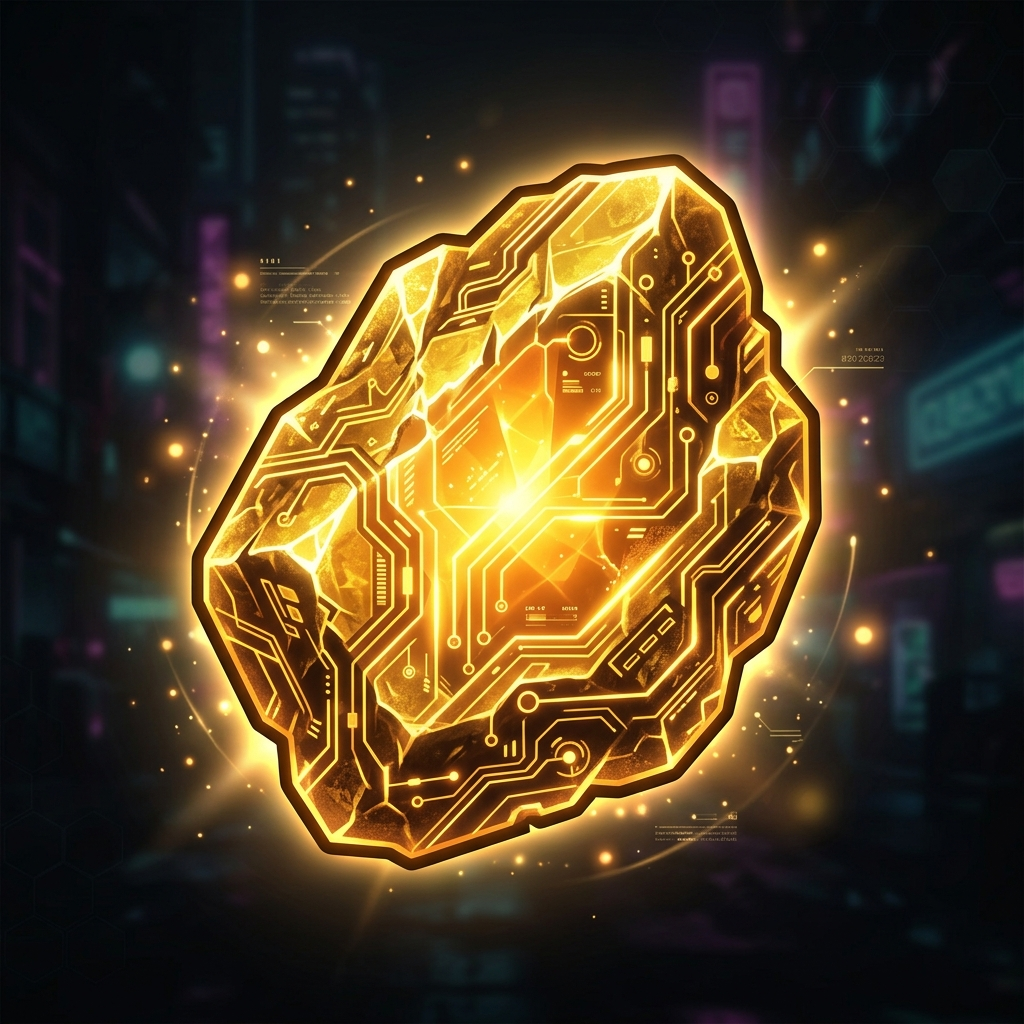
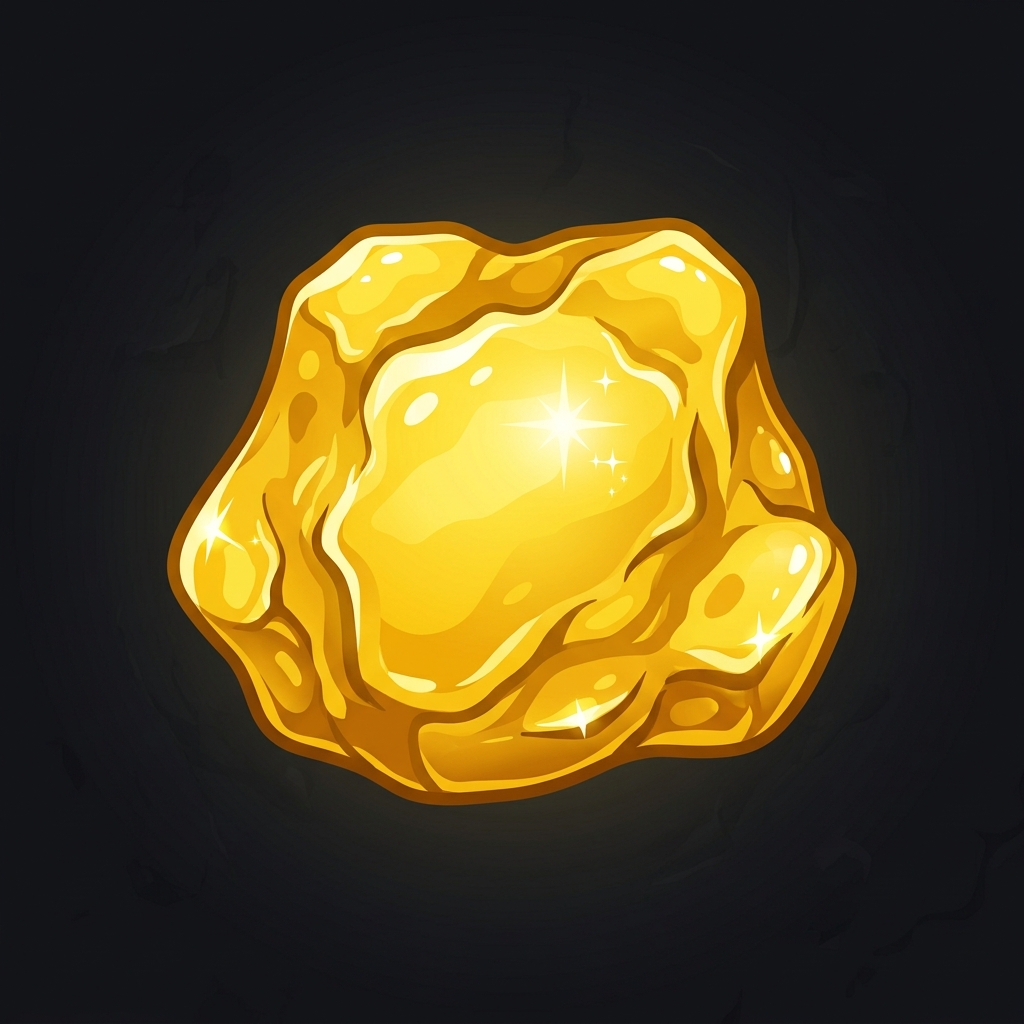
feat: upgrade Neon Gold Miner with classic cartoon miner, gold nugget, pig, bat obstacles, and exploding TNT barrels

diff --git a/miner.js b/miner.js
@@ -45,7 +45,8 @@
         },
 
         // Mảng các vật thể dưới đất
-        items: []
+        items: [],
+        explosions: [] // Hiệu ứng nổ { x, y, radius, maxRadius, alpha }
     };
 
     // Định nghĩa các loại vật phẩm
@@ -56,22 +57,54 @@
         DIAMOND: { radius: 10, color: '#b026ff', score: 600, weight: 0.5 },
         ROCK_S: { radius: 18, color: '#7f8c8d', score: 20, weight: 3.5 },
         ROCK_L: { radius: 30, color: '#7f8c8d', score: 50, weight: 6.0 },
+        TNT: { radius: 20, color: '#ff3b30', score: 0, weight: 1.0 }, // Thùng thuốc nổ
+        PIG: { radius: 16, color: '#ff85a2', score: 150, weight: 1.5 }, // Heo di động
+        BAT: { radius: 15, color: '#34495e', score: 80, weight: 1.0 }, // Dơi di động
         LUCKY: { radius: 16, color: '#ff3b30', score: null, weight: 1.5 } // Điểm random
     };
+
+    // --- LOAD ASSET SPRITES ---
+    const imgMiner = new Image();
+    imgMiner.src = 'assets/miner_character.png';
+
+    const imgGold = new Image();
+    imgGold.src = 'assets/neon_gold_nugget.png';
+
+    const imgDiamond = new Image();
+    imgDiamond.src = 'assets/neon_diamond.png';
+
+    const imgTNT = new Image();
+    imgTNT.src = 'assets/tnt_barrel.png';
+
+    const imgPig = new Image();
+    imgPig.src = 'assets/little_pig.png';
+
+    const imgBat = new Image();
+    imgBat.src = 'assets/flying_bat.png';
 
     // --- GAME ENGINE ---
     
     // Sinh ngẫu nhiên các vật phẩm dựa theo cấp độ
     function generateItemsForLevel() {
         state.items = [];
+        state.explosions = [];
         const count = 10 + state.level * 2;
         const types = Object.keys(ITEM_TYPES);
 
         for (let i = 0; i < count; i++) {
             let itemTypeKey = types[Math.floor(Math.random() * types.length)];
-            // Điều chỉnh xác suất: Diamond hiếm hơn
-            if (itemTypeKey === 'DIAMOND' && Math.random() > 0.3) {
-                itemTypeKey = 'GOLD_S';
+            
+            // Điều chỉnh xác suất: Diamond/TNT/Heo/Dơi phụ thuộc cấp độ
+            if (state.level === 1) {
+                // Màn 1: Không có heo, dơi, TNT
+                if (['TNT', 'PIG', 'BAT'].includes(itemTypeKey)) {
+                    itemTypeKey = 'GOLD_S';
+                }
+            } else {
+                // Các màn sau: diamond hiếm hơn
+                if (itemTypeKey === 'DIAMOND' && Math.random() > 0.3) {
+                    itemTypeKey = 'GOLD_S';
+                }
             }
             
             const conf = ITEM_TYPES[itemTypeKey];
@@ -100,13 +133,26 @@
                 actualScore = [50, 100, 250, 500, 800][Math.floor(Math.random() * 5)];
             }
 
+            // Tốc độ di chuyển cho Heo và Dơi
+            let speedX = 0;
+            let speedY = 0;
+            if (itemTypeKey === 'PIG') {
+                speedX = (Math.random() > 0.5 ? 1 : -1) * (0.8 + Math.random() * 0.8);
+            } else if (itemTypeKey === 'BAT') {
+                speedX = (Math.random() > 0.5 ? 1 : -1) * (1.2 + Math.random() * 1.0);
+                speedY = (Math.random() > 0.5 ? 0.3 : -0.3); // Bay lượn sóng
+            }
+
             state.items.push({
                 x, y,
                 radius: conf.radius,
                 color: conf.color,
                 scoreValue: actualScore,
                 weight: conf.weight,
-                type: itemTypeKey
+                type: itemTypeKey,
+                speedX,
+                speedY,
+                initialY: y // Để tính toán chuyển động lượn sóng cho dơi
             });
         }
     }
@@ -117,12 +163,72 @@
         state.hook.state = 'SHOOTING';
     }
 
+    // Kích nổ bom TNT
+    function triggerTNT(tntX, tntY) {
+        // Thêm hiệu ứng nổ
+        state.explosions.push({
+            x: tntX,
+            y: tntY,
+            radius: 10,
+            maxRadius: 100,
+            alpha: 1.0
+        });
+
+        // Hủy diệt các vật thể nằm trong bán kính nổ
+        const explosionRadius = 110;
+        state.items = state.items.filter(item => {
+            const dist = Math.hypot(item.x - tntX, item.y - tntY);
+            if (dist < explosionRadius) {
+                // Nếu nổ trúng 1 quả bom TNT khác -> kích nổ dây chuyền
+                if (item.type === 'TNT') {
+                    setTimeout(() => triggerTNT(item.x, item.y), 150);
+                }
+                return false; // Bị nổ tung (xóa khỏi mảng)
+            }
+            return true;
+        });
+
+        minerStatusText.innerText = 'BÙM! Thùng thuốc nổ đã kích hoạt!';
+        minerStatusText.style.color = '#ff3b30';
+    }
+
     // Cập nhật trạng thái Móc & Va chạm
     function updateGame() {
         if (state.status !== 'PLAYING') return;
 
         const hook = state.hook;
 
+        // 1. Cập nhật vị trí di chuyển cho các vật thể tự động (Heo, Dơi)
+        for (const item of state.items) {
+            if (item.type === 'PIG') {
+                item.x += item.speedX;
+                // Quay đầu khi chạm biên
+                if (item.x - item.radius < 5 || item.x + item.radius > minerCanvas.width - 5) {
+                    item.speedX *= -1;
+                }
+            } else if (item.type === 'BAT') {
+                item.x += item.speedX;
+                // Chuyển động lượn sóng Y
+                item.y = item.initialY + Math.sin(item.x * 0.05) * 20;
+                
+                // Quay đầu khi chạm biên
+                if (item.x - item.radius < 5 || item.x + item.radius > minerCanvas.width - 5) {
+                    item.speedX *= -1;
+                }
+            }
+        }
+
+        // 2. Cập nhật hiệu ứng nổ
+        for (let i = state.explosions.length - 1; i >= 0; i--) {
+            const exp = state.explosions[i];
+            exp.radius += 5;
+            exp.alpha -= 0.04;
+            if (exp.alpha <= 0) {
+                state.explosions.splice(i, 1);
+            }
+        }
+
+        // 3. Xử lý trạng thái Móc
         if (hook.state === 'SWINGING') {
             // Lắc qua lại theo cung tròn
             hook.angle += hook.swingDirection * SWING_SPEED;
@@ -152,10 +258,20 @@
                 const item = state.items[i];
                 const dist = Math.hypot(hook.x - item.x, hook.y - item.y);
                 if (dist < item.radius + HOOK_RADIUS) {
-                    // Tóm được vật phẩm
-                    hook.state = 'RETRIEVING';
-                    hook.grabbedItem = item;
-                    state.items.splice(i, 1); // Xóa khỏi danh sách dưới đất
+                    // Nếu là bom TNT -> Nổ ngay lập tức, không kéo về
+                    if (item.type === 'TNT') {
+                        triggerTNT(item.x, item.y);
+                        hook.state = 'RETRIEVING';
+                        state.items.splice(i, 1); // Xóa bom TNT
+                    } else {
+                        // Tóm được vật phẩm thường
+                        hook.state = 'RETRIEVING';
+                        // Dừng di chuyển của vật thể bị kéo
+                        item.speedX = 0;
+                        item.speedY = 0;
+                        hook.grabbedItem = item;
+                        state.items.splice(i, 1); // Xóa khỏi danh sách dưới đất
+                    }
                     break;
                 }
             }
@@ -176,7 +292,14 @@
                     minerCurrentScoreVal.innerText = state.score;
                     
                     // Show text thông báo điểm
-                    minerStatusText.innerText = `Kéo thành công! +${hook.grabbedItem.scoreValue} điểm.`;
+                    let name = 'vật phẩm';
+                    if (hook.grabbedItem.type.startsWith('GOLD')) name = 'Vàng';
+                    else if (hook.grabbedItem.type === 'DIAMOND') name = 'Kim cương';
+                    else if (hook.grabbedItem.type === 'PIG') name = 'Heo con';
+                    else if (hook.grabbedItem.type === 'BAT') name = 'Con dơi';
+                    else if (hook.grabbedItem.type === 'LUCKY') name = 'Túi may mắn';
+
+                    minerStatusText.innerText = `Kéo được ${name}! +${hook.grabbedItem.scoreValue} điểm.`;
                     minerStatusText.style.color = '#39ff14';
                     
                     hook.grabbedItem = null;
@@ -194,16 +317,6 @@
 
         draw();
     }
-
-    // --- LOAD ASSET SPRITES ---
-    const imgMiner = new Image();
-    imgMiner.src = 'assets/miner_character.png';
-
-    const imgGold = new Image();
-    imgGold.src = 'assets/neon_gold_nugget.png';
-
-    const imgDiamond = new Image();
-    imgDiamond.src = 'assets/neon_diamond.png';
 
     // --- DRAWING GRAPHICS ---
     function draw() {
@@ -264,6 +377,25 @@
         if (state.hook.grabbedItem) {
             drawItem(state.hook.grabbedItem);
         }
+
+        // Vẽ hiệu ứng nổ TNT
+        for (const exp of state.explosions) {
+            ctx.save();
+            ctx.globalAlpha = exp.alpha;
+            
+            // Vẽ quầng lửa neon cam đỏ
+            const grad = ctx.createRadialGradient(exp.x, exp.y, exp.radius * 0.1, exp.x, exp.y, exp.radius);
+            grad.addColorStop(0, '#ffffff');
+            grad.addColorStop(0.2, '#ff9f43');
+            grad.addColorStop(0.8, '#ff3b30');
+            grad.addColorStop(1, '#07080c');
+            
+            ctx.fillStyle = grad;
+            ctx.beginPath();
+            ctx.arc(exp.x, exp.y, exp.radius, 0, Math.PI * 2);
+            ctx.fill();
+            ctx.restore();
+        }
     }
 
     function drawItem(item) {
@@ -293,6 +425,34 @@
                 ctx.lineTo(item.x, item.y + item.radius);
                 ctx.lineTo(item.x - item.radius, item.y);
                 ctx.closePath();
+                ctx.fill();
+            }
+        } else if (item.type === 'TNT') {
+            try {
+                // Vẽ thùng thuốc nổ
+                ctx.drawImage(imgTNT, item.x - item.radius, item.y - item.radius, item.radius * 2, item.radius * 2);
+            } catch (e) {
+                ctx.fillStyle = item.color;
+                ctx.fillRect(item.x - item.radius, item.y - item.radius, item.radius * 2, item.radius * 2);
+            }
+        } else if (item.type === 'PIG') {
+            try {
+                // Vẽ heo con di chuyển
+                ctx.drawImage(imgPig, item.x - item.radius, item.y - item.radius, item.radius * 2, item.radius * 2);
+            } catch (e) {
+                ctx.fillStyle = item.color;
+                ctx.beginPath();
+                ctx.arc(item.x, item.y, item.radius, 0, Math.PI * 2);
+                ctx.fill();
+            }
+        } else if (item.type === 'BAT') {
+            try {
+                // Vẽ dơi bay
+                ctx.drawImage(imgBat, item.x - item.radius, item.y - item.radius, item.radius * 2, item.radius * 2);
+            } catch (e) {
+                ctx.fillStyle = item.color;
+                ctx.beginPath();
+                ctx.ellipse(item.x, item.y, item.radius, item.radius * 0.6, 0, 0, Math.PI * 2);
                 ctx.fill();
             }
         } else if (item.type.startsWith('ROCK')) {